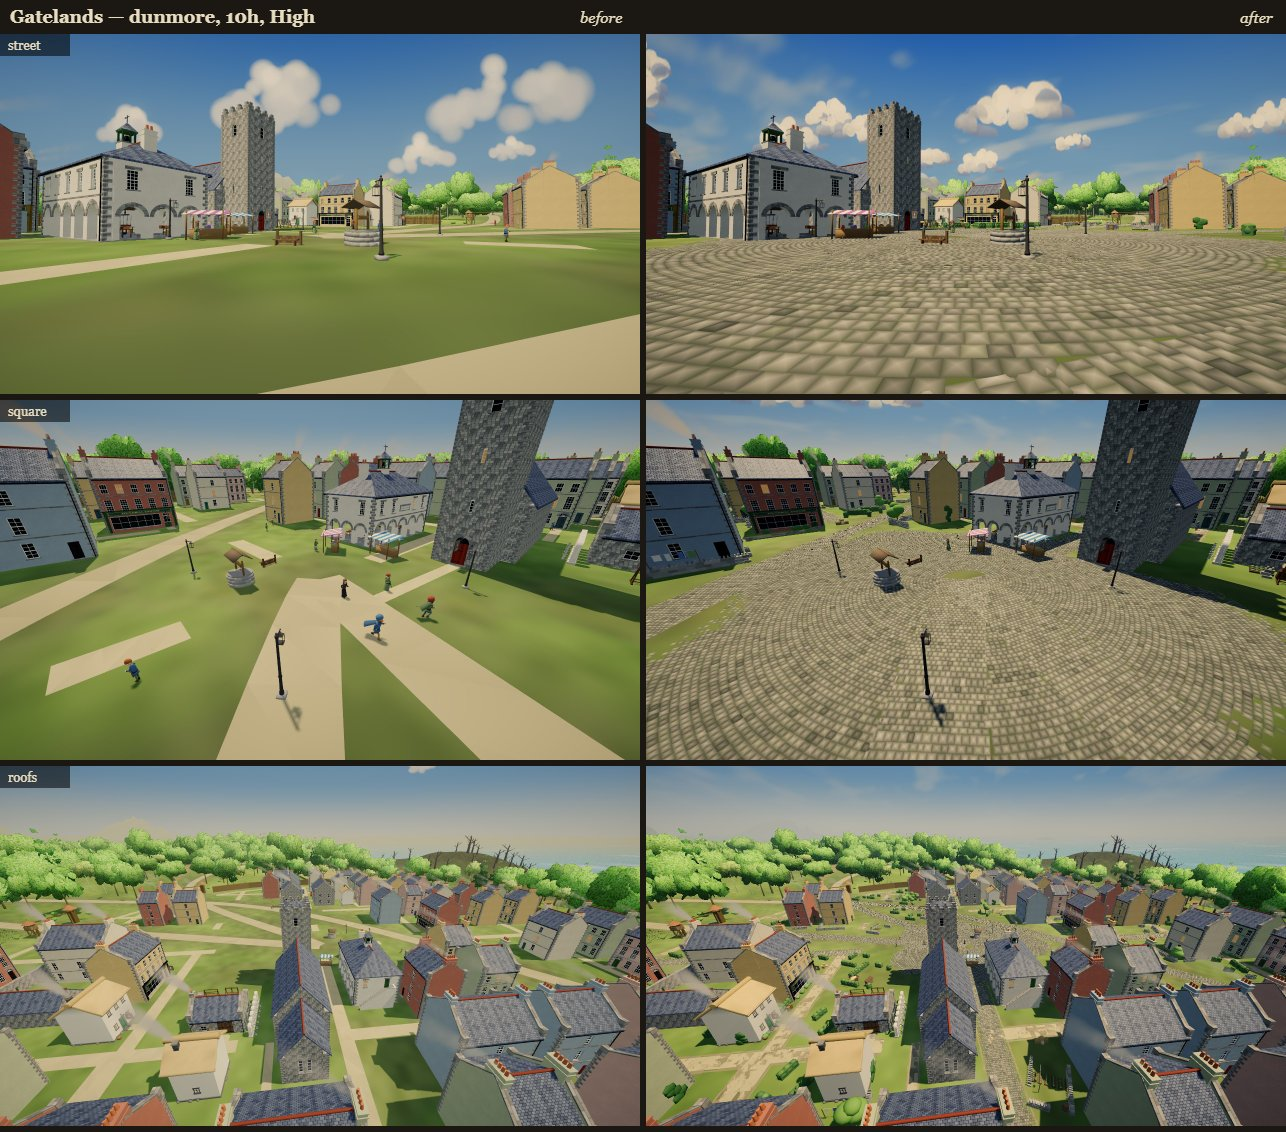
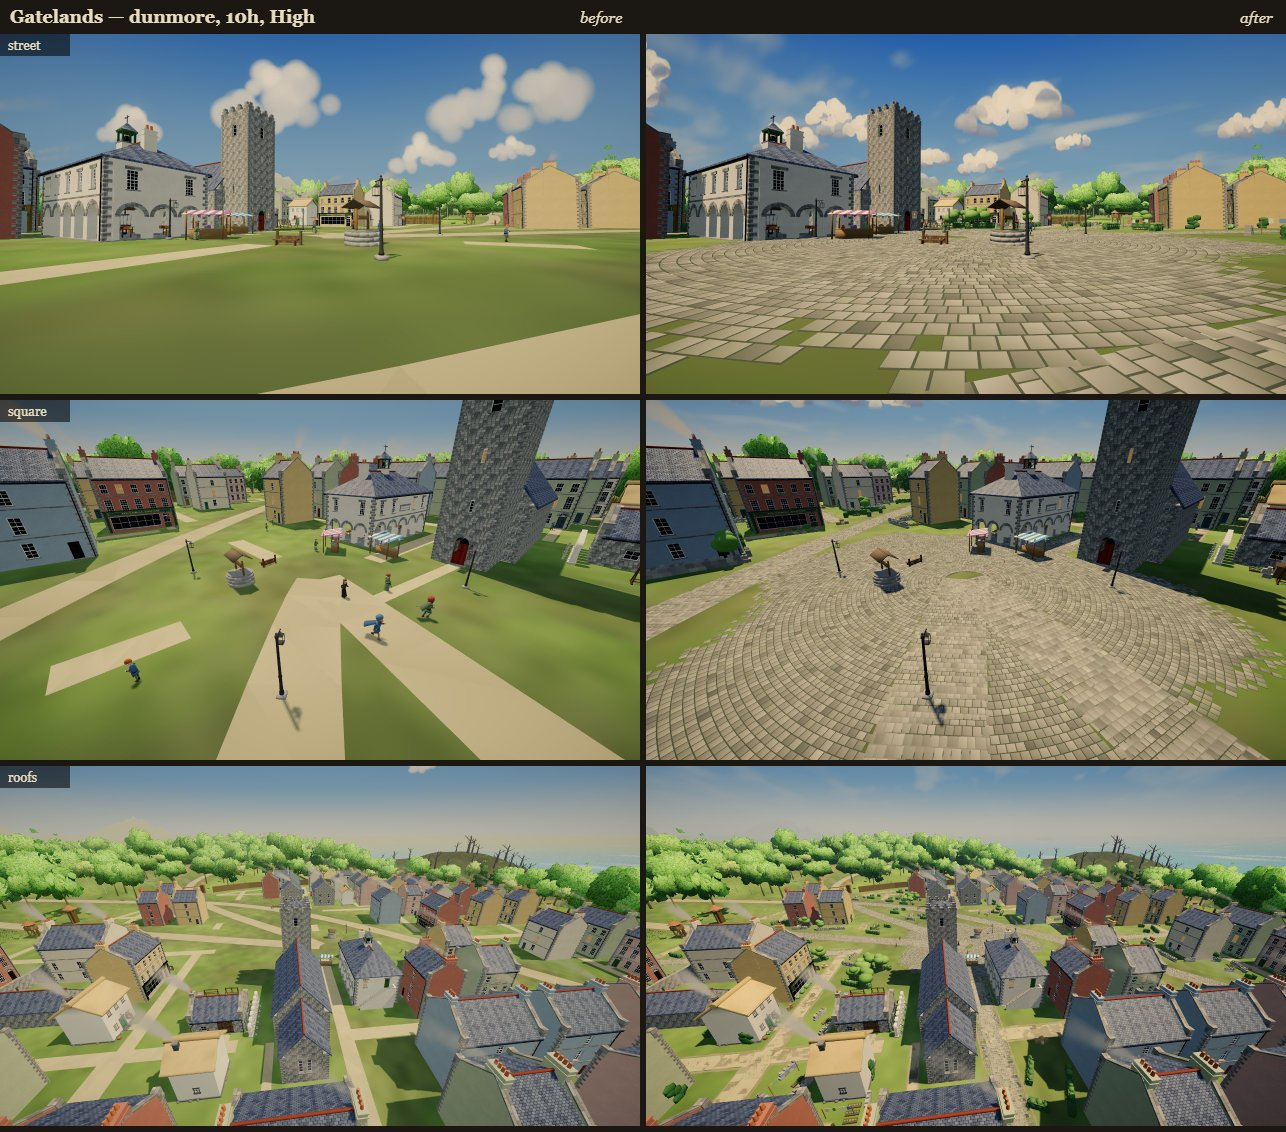
Towns dressed (S2670): sheets on the final code; devlog of the full suite's findings

diff --git a/docs/devlog/2670.md b/docs/devlog/2670.md
@@ -50,30 +50,43 @@ every draw the town made, so no name, barrel or person moves, and a reload lays 
   sheds, ricks and trees as boxes and blobs), and the ground (always drawn, no shadow cast). A town adds about 30 meshes, a third of them in
   view at once.
 
-**What the full suite found** (the `check` workflow on the branch beside one on main, 26 Nov; main was red on its own on 28 suites that day, so
-only the reds that were the branch's alone are this change's):
-- `beat`: a Dunmore guard stood 387 of 600 s on the night beat. The guards walk to each beat point in a straight line and fall back on the
-  watch's 1 m route grid when they make no headway, and the dressing gave them pockets no way led out of. Gates of 1.2 m and slits left by
-  a wall piece that wasn't clear let a townsperson in, and the grid read them as shut. A cart across a plot's gate shut him in. Patching
-  pockets one at a time (a wider grid margin, a route allowed to step out of it, 2 m gates kept clear, every gap in a wall widened to 2.2 m
-  or closed) freed him but left him stopping 12 to 20 s at a time. So the townsfolk now see through the dressing: `solidAtNpc` is `solidAt`
-  with the dressing's solids skipped (`NPC_THRU_DRESS`, read by `settleSolid`), used by `npcStep` and by every test in `townRoute`. The people walk where
-  they walked before, and only you are stopped by a garden wall or a cart. The 2 m gates, the clear ground at each gate and the 2.2 m rule
-  for gaps stay. The pass also runs as a job now (`townDressJob`: a few houses, a row of the lawns' search or ten paths a step), so a
-  town's build is not one long frame; when it is done, the watch's ways and the work spots are found again.
-  On this machine `beat` fails with the dressing switched off too (a guard over 10 s still; one armourer's door passed once in ten
-  minutes, not twice). With the dressing on, no guard stands over 6 s, and that one door is not passed at all, the same in two runs.
-- `harbour`: every near cluster in `S.lodMeshes` must have a far twin, and the clutter's near clusters have none. The dressing has its own list
-  now, `S.dressLod`, by the same near and far rule in `houseLod`.
-- `wayfinding`: every footprint must carry a type. The dressing's solids now carry `bt:'dress'` (the walls `'wall'`).
-- `roll`: the game's start is the middle of Hearthwick, and two of its yard walls stood 4 to 8 m from the centre, behind the player, so every
-  roll after the first was blocked. No dress solid now stands within a town's square radius of its centre (9 m in a village), where you
-  arrive and the well is.
-- `panelfocus`: it walked you about 6 m north for each of its panels without bringing you back, so the last walk began 40 m from the square,
-  against a garden wall. The suite now starts each walk from the same spot (`tests/panelfocus.test.mjs`, the one suite edited).
-- `f4animals` failed the same two checks with the dressing on and switched off (the Lantern Jelly and the Drifter Squid): not this change.
-- `gateguards`: Carraig Mór's two guards average 13.5 m apart with the dressing and 14.5 without it, both under the suite's 15. That was
-  before the townsfolk saw through the dressing; their beat is now the one they had without it.
+**What the full suite found**, and what changed for it. The `check` workflow ran on the branch three times, beside one on main on 26 Nov
+(main was red on 28 suites of its own that day, so only a red the branch had alone was this change's):
+- `budget`: Dunmore's street went over its ceilings, 1.30 M triangles at Low (ceiling 1.2 M) and 2.11 M at Middle (2.0 M), against main's
+  1.10 M and 1.81 M.
+  - Each stone is now two triangles, inset over one dark quad a course, so the joints show between them (the old low dome took four).
+  - The setts are 0.34 m and the square is at most 20 m.
+  - The dry-stone walls are two courses.
+  - The dressing goes by the quality level (`tdrQuality`). Low draws a coarse copy of the ground (a strip's tone in one quad), none of the
+    small things and the walls' near copies only within 45 m; the walls, sheds and trees cast shadows at High only. The small things never do.
+  - It is merged in 120 m pieces, with the earth inside both ground meshes, which halved its draw calls.
+  - Locally: Low 1.19 M and 674 calls (ceilings 1.2 M and 700); Middle 1.95 M; High 2.43 M (ceiling 4 M).
+- `beat` and `watch`: a Dunmore guard stood 387 of 600 s on the night beat, and later the beat missed the armourer's door. Guards walk to
+  each beat point in a straight line and fall back on the watch's 1 m route grid, and the dressing gave them pockets the grid had no way out
+  of (a 1.2 m gate, a slit where a wall piece wasn't clear, a cart across a plot's gate). Then, routed round the dressing, the beat had 34
+  points for 13, each a stop. Now:
+  - a townsperson's own step goes through the dressing: `solidAtNpc` is `solidAt` with it skipped (`NPC_THRU_DRESS`, read by
+    `settleSolid`), used by `npcStep`;
+  - the night beat is routed and pulled straight as it was before the dressing (`townRoute(S,true)`, its own grid);
+  - every other way keeps off the dressing: the followers', the directions' and the work spots' grid reads every solid and traces each wall
+    along its line, so a way never runs through a wall;
+  - gates are 2 m with clear ground kept at each; a gap in a wall is closed or at least 2.2 m; a frontage wall is laid only across a gap over
+    4.2 m, with its gate, so the ways between houses stay open; the water butts at the front corners are gone.
+  `watch`'s beat now has 13 points and passes every shop door. `beat` gives the same counts with the dressing on as switched off, and the
+  same with both here. Its one red here (a guard over 10 s once, one door passed once) is main's on this machine, and CI's main passes it.
+  `watch`'s "corner where CI held her" check fails here with the dressing off too.
+- The pass's frames: it runs in a queue of its own (`TDR_Q`, `tdrTickJobs` from `houseLod` on every world tick, 4 ms a frame), a few
+  houses, a row of the lawns' search or ten paths a step. On the world's job queue it held the people's bodies back (the body builder waits while
+  that queue is busy), so `gait` drove the watchwoman asleep and failed. When it is done, the town's ways and work spots are found again.
+- `gait` drives the first built townsperson it finds. A body held in a pose (seated, asleep, riding, a child at play) never walks when
+  driven, and a different build order put one first. The suite now picks from bodies not held so (`tests/gait.test.mjs`); 11/11.
+- `harbour`: every near cluster in `S.lodMeshes` must have a far twin. The dressing has its own list, `S.dressLod`.
+- `wayfinding`: every footprint must carry a type. The dressing's solids carry `bt:'dress'` (the walls `'wall'`).
+- `roll`: the start is the middle of Hearthwick, and two yard walls stood 4 to 8 m behind you there, so a second roll went nowhere. No dress
+  solid now stands within a place's square radius of its middle (9 m in a village).
+- `panelfocus`: it walked you about 6 m north a panel without bringing you back, and the last walk met a garden wall 40 m out. It now starts
+  each walk from the same spot (`tests/panelfocus.test.mjs`).
+- `f4animals` fails the same two checks here with the dressing on and switched off (the Lantern Jelly and the Drifter Squid).
 
 **Paving toned down** (Michael on the first sheets, carried by the producer's session: "Tone paving down first"). He saw what read as
 oversized, even floor tiles laid wall to wall: every street was setts edge to edge, so from the roofs the Gatelands' centre went grey and the
@@ -93,28 +106,27 @@ its racks by that id, so moving the lots moves every id. The plots and the front
 people, and the streets away from it one or two in view. The Mark's town and Aurenne's show the same.
 
 ### Verified (headless Chromium)
-All of this was run on a machine shared with two other sessions' browsers, at 10h on High.
-- **The pictures.** One town per island, three views each (a street at eye height 22 m from the middle, the square from 9 m up, the roofs from
-  30 m), before and after: `docs/prototypes/town-dressing/gatelands.jpg` (Dunmore), `mark.jpg` (c1_1_s1, under snow) and `aurenne.jpg`
-  (c7_1_s1). They were taken just before the last commit, which only removes the few pieces that stood within 2 m of a door.
-- **What each town lays** (a throwaway check, `tests/tmp/dresscheck.mjs`, on the last commit):
-  - Dunmore: 18 yards, 304 wall runs (32 of them frontage), 136 things, 14 in the streets, 42 walled plots; 201k triangles in 35 meshes.
-  - The Mark's town: 8 yards, 183 runs, 91 things, 17 in the streets, 27 plots; 127k triangles in 27 meshes.
-  - Aurenne's: 4 yards, 112 runs, 123 things, 17 in the streets, 18 plots; 111k triangles in 25 meshes.
-  - In all three, no dress solid is within 2 m (true distance) of any door or step-out point, none is on a road, and a rebuild lays the
-    dressing to the same hash.
-  - An earlier run found walls 1.6 m from neighbours' doors and yard stacks tested by too small a radius. Walls now take the solid margin
-    (2.5 m from a piece's middle), and each piece is tested by the reach to its footprint's far corner (`TDR_R`).
-- **The pass's cost.** It is timed by phase (`S.dress.phase`). Moving the clear test onto a 4 m grid (solids, claims, doors and walks) and the
-  paving's heights onto a 1 m lattice took Dunmore's pass from 6.3 s to about 1 s, and Aurenne's from 6.3 s to 0.3 s, in like-for-like runs.
-  Under the heaviest load the same passes read 0.7 to 6 s, while `genSettlement` itself swung from 16 s to 76 s. Its share of a town's build
-  could not be measured here.
+Run on a machine shared with two other sessions' browsers, at 10h on High, on the final code (merged with main at 5667ea5a).
+- **The pictures.** One town per island, three views each (a street at eye height 22 m from the middle, the square from 9 m up, the roofs
+  from 30 m), before and after: `docs/prototypes/town-dressing/gatelands.jpg` (Dunmore), `mark.jpg` (c1_1_s1, under snow) and
+  `aurenne.jpg` (c7_1_s1). Aurenne's street spot is picked from its road and the solids near it, so it moved, and now stands in a street
+  instead of against a wall.
+- **What each town lays** (a throwaway check, `tests/tmp/dresscheck.mjs`):
+  - Dunmore: 18 yards, 153 wall runs, 89 things, 11 in the streets, 38 walled plots; 191k triangles in 35 meshes.
+  - The Mark's town: 8 yards, 105 runs, 79 things, 17 in the streets, 27 plots; 121k triangles in 27 meshes.
+  - Aurenne's: 4 yards, 59 runs, 104 things, 17 in the streets, 18 plots; 106k triangles in 25 meshes.
+  - In all three, no dress solid is within 2 m (true distance) of any door or step-out point, and none is on a road.
+  - Two rebuilds in the same loaded world lay it the same. A first build made while roads are still loading can differ from a later one,
+    as the town's own layout can.
+- **The pass's cost**, as a job: Dunmore 519 ms of work in 65 steps, the longest 58 ms; the Mark 417 ms in 27, the longest 158; Aurenne
+  324 ms in 21, the longest 53. Inline, the same work was one frame of 0.3 to 6 s on this machine.
 - **Suites.**
-  - Local: `houseexits` 1/1 (every exit in Dunmore is clear ground on both looks; the moved exits are the same ten). `python3
-    scripts/parsecheck.py` and `node tests/topnames.test.mjs` are clean.
-  - `townplots` timed out at boot on this machine (the title's click, before any check). On its retry every check it reached passed, and it
-    died at the village church's door (a cap, not a failure).
-  - The full `check` workflow on the branch (run 45745920953): RESULT.
+  - Local: `houseexits` 1/1. `harbour`, `roll` and `panelfocus` pass after the fixes above.
+  - `beat`: no guard stands over 6 s now. One door is missed, which also fails here with the dressing off (see above).
+  - `f4animals` fails the same two checks with and without the dressing.
+  - `python3 scripts/parsecheck.py` and `node tests/topnames.test.mjs` are clean.
+  - `budgetport` on CI (an earlier head): Portclare at High 628 calls and 2.01 M triangles, under 1,300 and 4 M.
+  - The full `check` on this branch's final code (run 45819507943), against main's of 26 Nov (run 45765915387, 28 suites red): RESULT.
 
 ### Needs eyes
 - At eye level in a real playtest:
@@ -122,10 +134,12 @@ All of this was run on a machine shared with two other sessions' browsers, at 10
   - whether the hedges (lumps over a core) and the dry-stone courses hold up close;
   - whether Aurenne's pale flags are too close to its sand;
   - the Mark's ground, which is under snow in the town shot here.
-- The pass's cost on a real laptop: it runs inside `genSettlement`, on the cell's job, so a slow pass is a hitch when a town builds. If it
-  shows, the next step is to run it as its own job after the town stands.
+- The pass's cost on a real laptop: it is now a job of many short steps, but a town still builds over a second or two of frames, and its
+  ground appears a moment after its houses.
 - The lawns: from the roofs, the blocks' middles are now walled gardens and orchards, but the widest gaps (where back-row doors face the
   yards) are still green. Tightening the lots is #2053.
+- Townsfolk see through the dressing (`solidAtNpc`): a guard may walk through a garden wall or a cart at night. Whether that shows in play,
+  and whether the people should route round the dressing, is the systems builder's call.
 - Bought houses: a home you own at build keeps its yard open. One bought after the town was built still has its yard dressing until the
   next load. A garden or rack fitted then ignores the dressing's solids and may overlap a wall until that load.
 - The sheets' Aurenne street view looks into the side of an existing building in both shots (the view's spot is chosen by the road, not by
